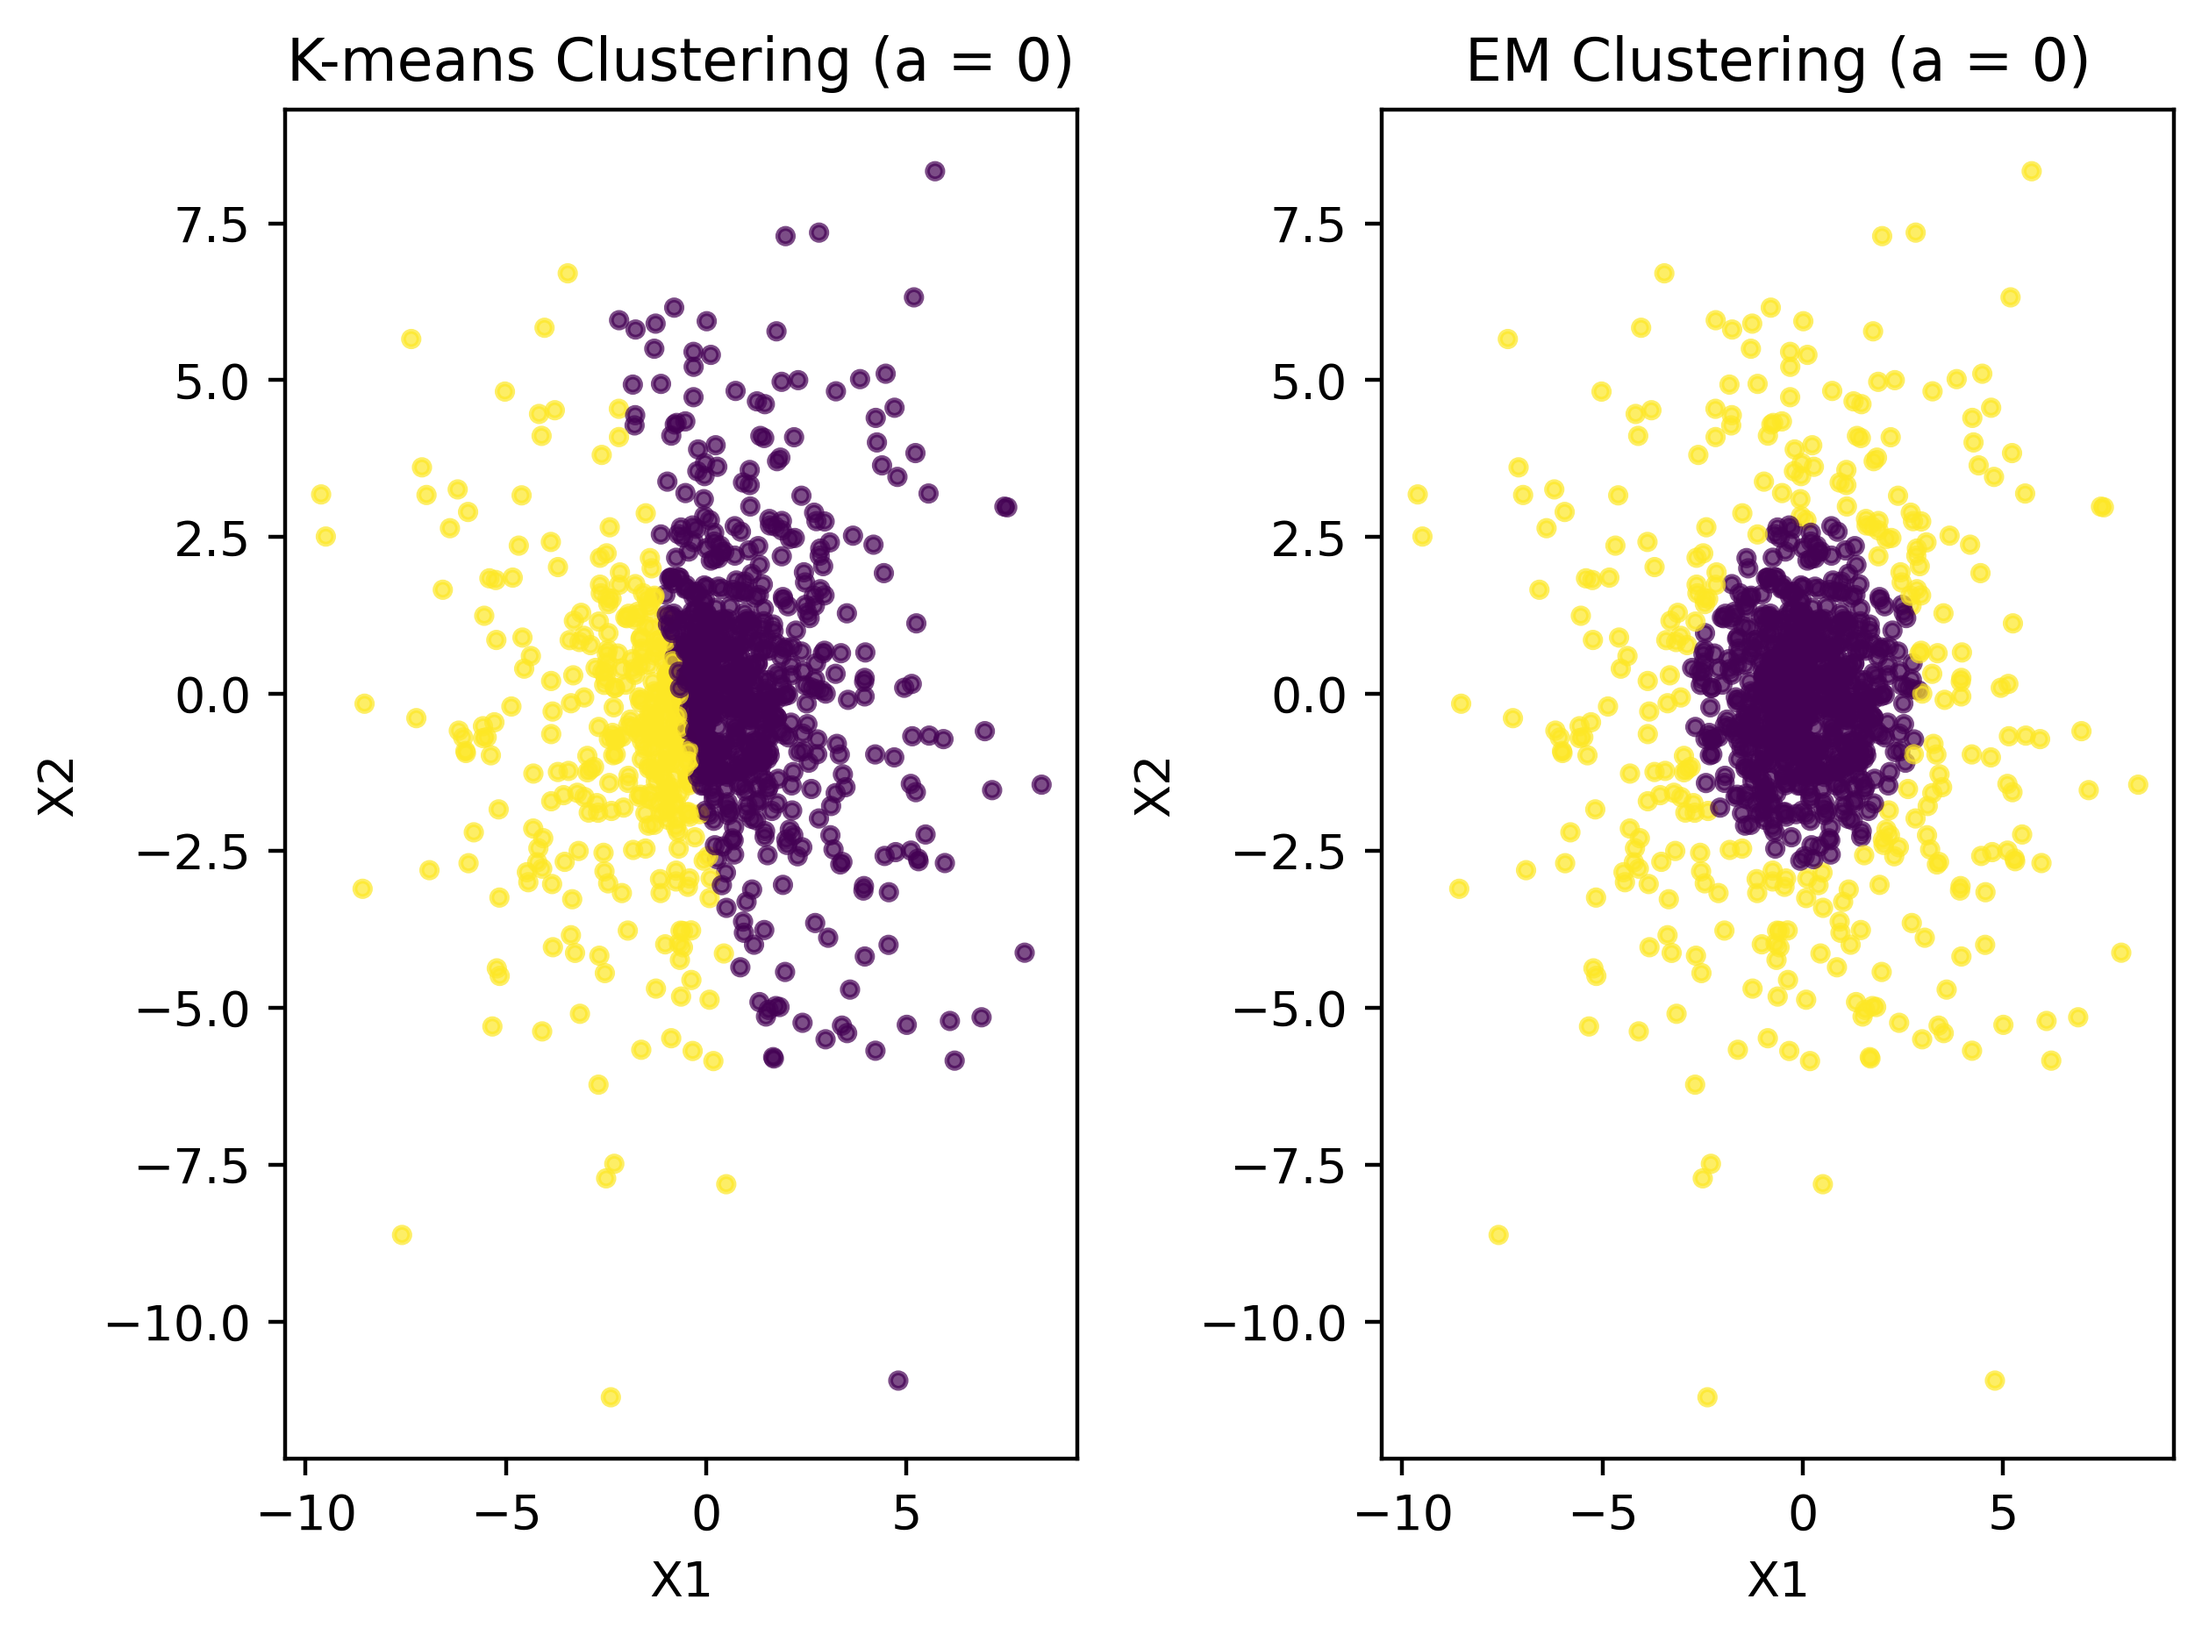
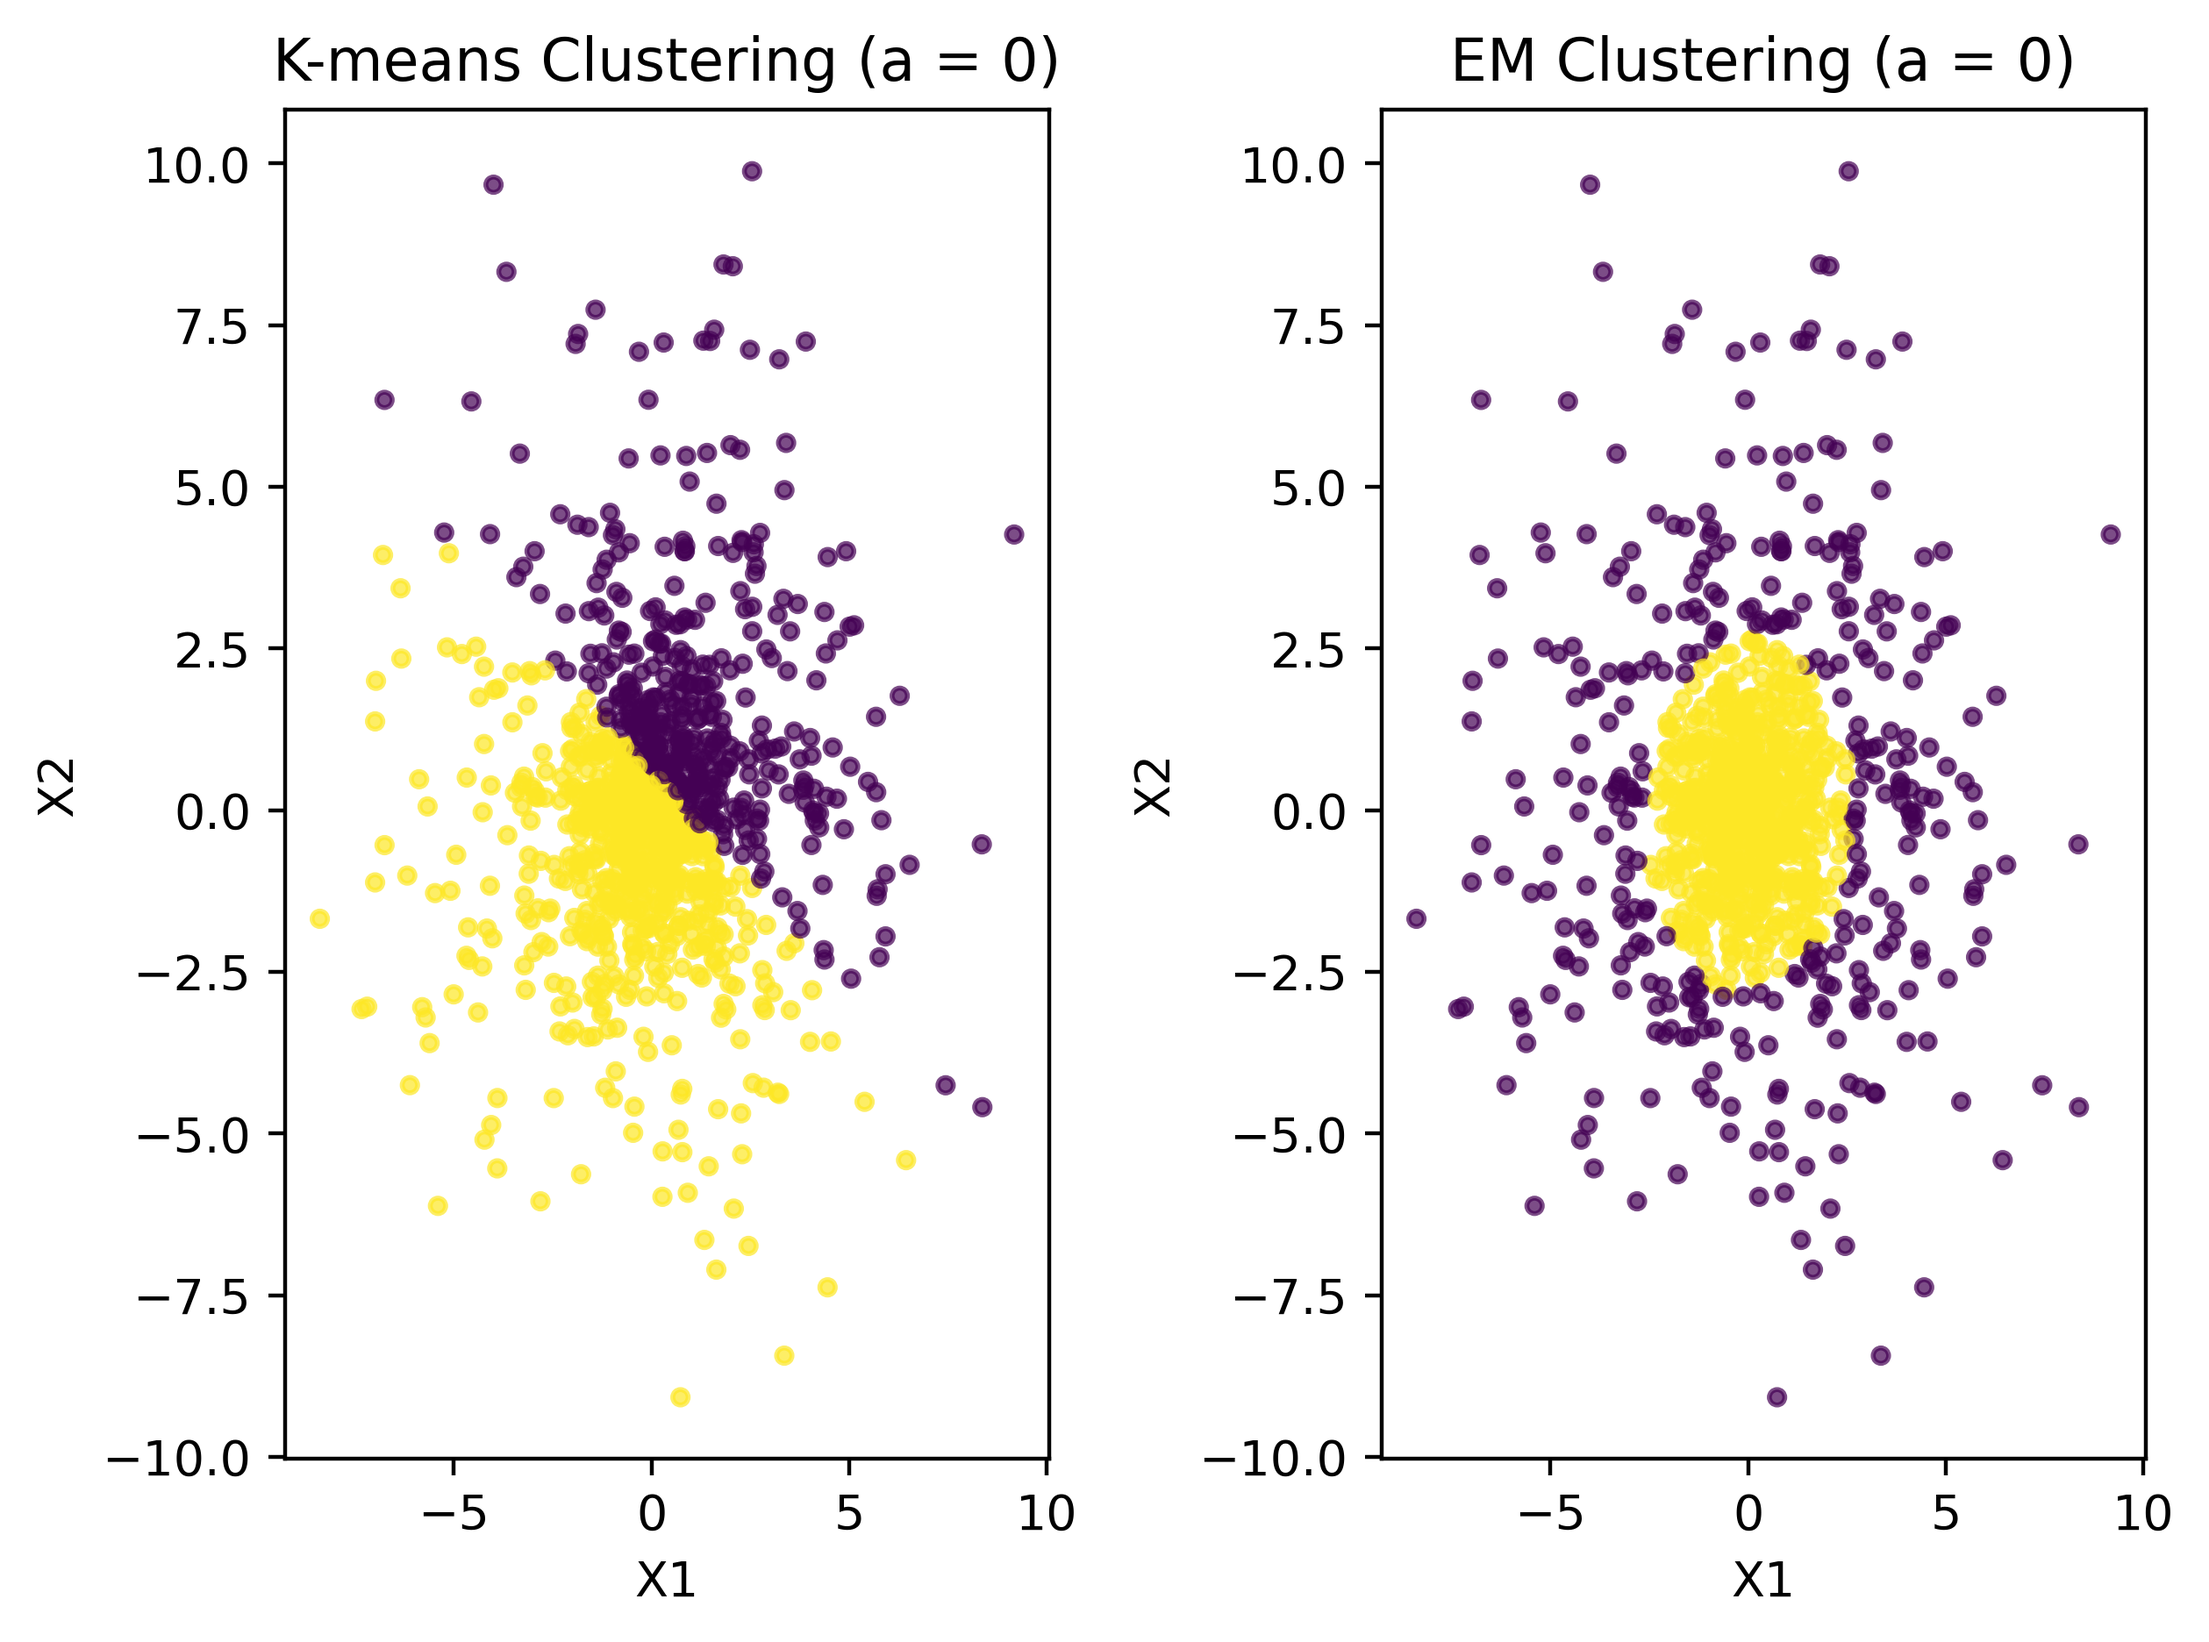
working on custom K-means function

diff --git a/assignments/hw08/code/hw08.py b/assignments/hw08/code/hw08.py
@@ -197,12 +197,13 @@ for i in range(10):
     D = np.diag([25,1])
     Sigma = U @ D @ U.T
 
-    #generate X centered at 0 with covariance Sigma
+    #generate X centered at 0 with covariance Sigma plus labels
     XQ = multivariate_normal.rvs(
         mean=[0.0, 0.0],
         cov=Sigma,
         size=500
     )
+    YQ = np.zeros(500)
 
     #generate XP from (10,0) with covariance Sigma
     XP = multivariate_normal.rvs(
@@ -210,23 +211,31 @@ for i in range(10):
         cov=Sigma,
         size=500
     )
+    YP = np.ones(500)
 
     X = np.vstack([XQ, XP])
+    y = np.concatenate([YQ, YP])
 
     #compute the KL divergence between the two distributions
-    kl = kl_divergence_gaussians(mu1=np.array([0.0, 0.0]), cov1=Sigma, mu2=np.array([10.0, 0.0]), cov2=Sigma)
+    kl = kl_divergence_gaussians(
+        mu1=np.array([10.0,0.0]),
+        cov1=Sigma,
+        mu2=np.array([0.0,0.0]),
+        cov2=Sigma
+        )
+    
 
     #K means with no covariance modelling
-    kmeans = KMeans(n_clusters=2, n_init=10, random_state=1000+i)
-    kmeans_labels = kmeans.fit_predict(X)
+    # kmeans = KMeans(n_clusters=2, n_init=1, random_state=1000+i)
+    # kmeans_labels = kmeans.fit_predict(X)
 
-    #K means with full covariance matrices
+    # #K means with full covariance matrices
+    # k_mean_full_cov = GaussianMixture(n_components=2, covariance_type="full", n_init=1, random_state=1000+i)
+    # k_mean_full_cov_labels = k_mean_full_cov.fit_predict(X)
 
-
-
-    #EM clustering
-    EM_cluster = GaussianMixture(n_components=2, n_init=10, random_state=1000+i)
-    EM_cluster_labels = EM_cluster.fit_predict(X)
+    # #EM clustering
+    # EM_cluster = GaussianMixture(n_components=2, n_init=1, random_state=1000+i)
+    # EM_cluster_labels = EM_cluster.fit_predict(X)
 
     #add stuff to results list
     # results.append({
@@ -234,3 +243,40 @@ for i in range(10):
     #     "kmeans_labels": kmeans_labels,
     #     "em_labels": EM_cluster_labels
     # })
+
+#function to impliment k-means clustering from the slides
+#k-means with either no covariance modelling or full covariance modelling
+def k_means_clustering(X, n_clusters, max_iters=100, tol=1e-6, seed=123,
+                       covariance="identity"):
+
+    np.random.seed(seed)
+    n, d = X.shape
+
+    #random initialization of cluster centers and covariance matrices
+    idx = np.random.choice(n, n_clusters, replace=False)
+    centers = X[idx]
+
+    #creates K*d*d array of identity matrices.  labels are initialized to -1 for all samples, meaning 
+    #they are not assigned to any cluster.
+    Sigmas = np.tile(np.eye(d), (K, 1, 1))
+    labels = -np.ones(n, dtype=int)
+
+    for i in range(max_iters):
+        #need a way to track distance from point i to cluster k
+        dists = np.zeros((n, n_clusters))
+
+        #different cases for the covariance
+        if covariance == "identity":
+            for k in range(n_clusters):
+                dists[:, k] = np.linalg.norm(X - centers[k], axis=1)**2
+        elif covariance == "full":
+            for k in range(n_clusters):
+                diff = X - centers[k]
+                dists[:, k] = np.sum(diff @ np.linalg.inv(Sigmas[k]) * diff, axis=1)
+        else:
+            raise ValueError("Invalid covariance type.")
+    
+    #https://numpy.org/devdocs/reference/generated/numpy.argmin.html
+    labels = np.argmin(dists, axis=1)
+
+    #do something if the labels haven't changed.
